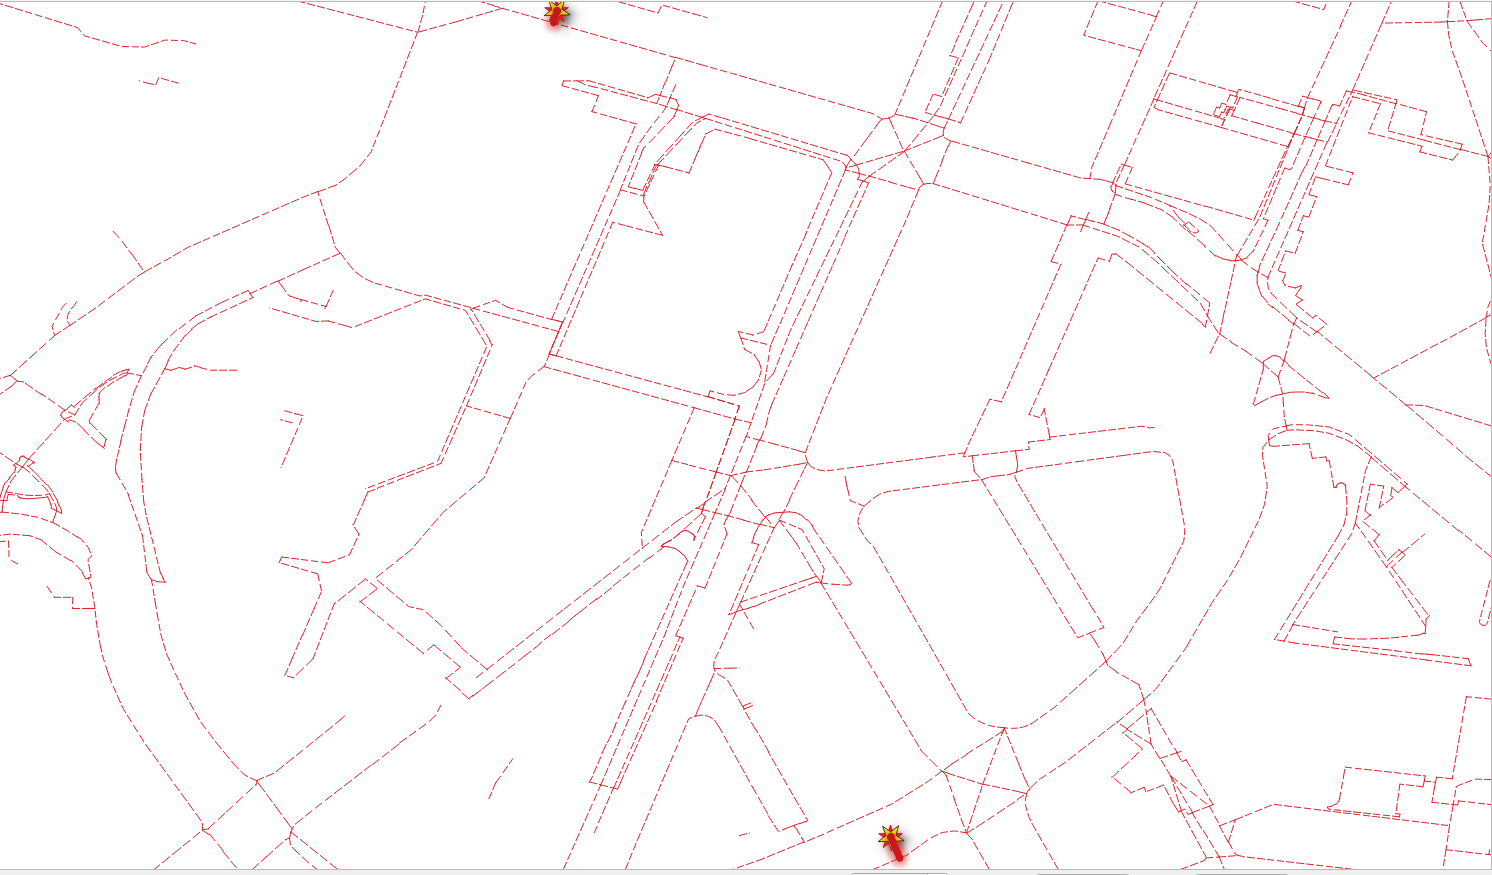
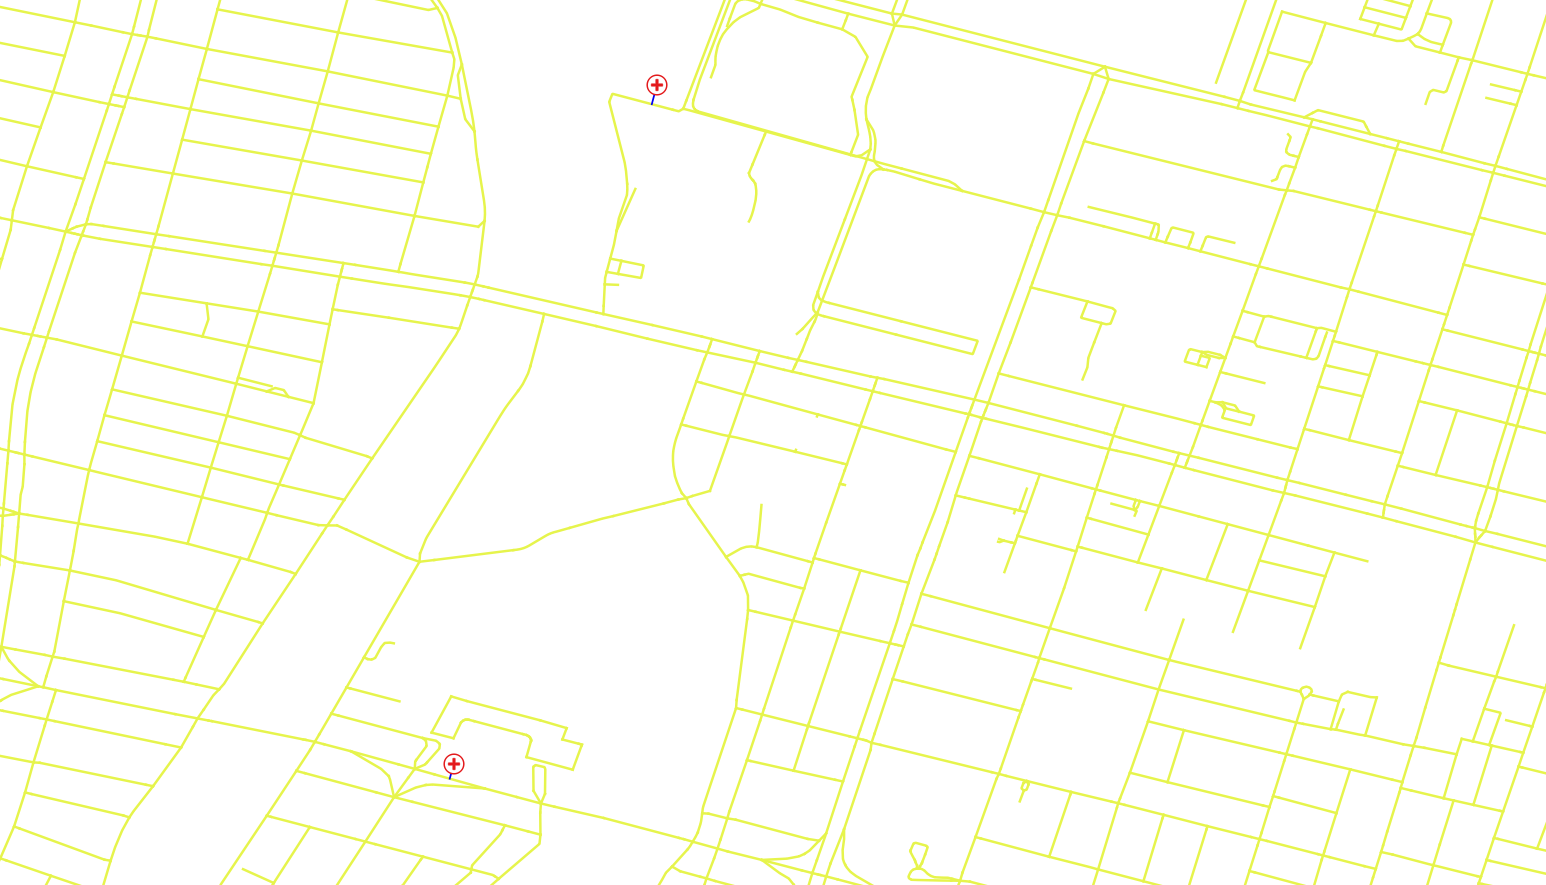
withPoints chapter is done

diff --git a/docs/basic/withPoints.rst b/docs/basic/withPoints.rst
@@ -10,9 +10,10 @@ Routing using points
   :align: center
 
 
-For more advanced requirements, you can utilize `PL/pgSQL <https://www.postgresql.org/docs/current/plpgsql.html>`_. As application logic grows more complex, using PL/pgSQL
-to dynamically construct SQL queries and execute them using internal variables becomes necessary.
-
+For more advanced requirements, you can utilize
+`PL/pgSQL <https://www.postgresql.org/docs/current/plpgsql.html>`_.
+As application logic grows more complex, using PL/pgSQL to dynamically construct
+SQL queries and execute them using internal variables becomes necessary.
 
 pgRouting functions in this chapter
 
@@ -30,13 +31,11 @@ Requirements for routing lat,lon points
   geometries and works for
 
   * ``vehicle_net``
-  * ``taxi_net``
-  * ``walk_net``
 
 * The function takes as input parameters:
 
   - The edges table name
-  - Latitude/longitude of two point
+  - Latitude/longitude of two points
 
 * Returns
 
@@ -51,7 +50,6 @@ The detailed description:
 ================  ==========  ================================================
 Parameter         type        Description
 ================  ==========  ================================================
-``edges_subset``  REGCLASS    Edge table name identifier.
 ``lat1``          NUMERIC     The latitude of the `departure` point.
 ``lon1``          NUMERIC     The longitude of the `departure` point.
 ``lat2``          NUMERIC     The latitude of the `destination` point.
@@ -61,21 +59,9 @@ Parameter         type        Description
 ================  ==========  ================================================
 
 
-.. rubric::  Output columns
-
-================== ========= =================
-Name               Type      Description
-================== ========= =================
-``seq``             INTEGER   A unique number for each result row.
-``id``              BIGINT    The edge identifier.
-``name``            TEXT      The name of the segment.
-``seconds``         FLOAT     The number of seconds it takes to traverse the segment.
-``length``          FLOAT     The length in meters of the segment.
-``azimuth``         FLOAT     The azimuth of the segment.
-``route_readable``  TEXT      The geometry in human readable form.
-``route_geom``      geometry  The geometry of the segment in the correct direction.
-================== ========= =================
-
+.. include:: sql_function.rst
+   :start-after: columns_start
+   :end-before: columns_end
 
 For this chapter, the following points will be used for testing.
 
@@ -115,8 +101,7 @@ Get the nearest edge on the graph of the following points.
 
 .. rubric:: Solution
 
-* Build the geometry of the points with the appropiate SRID. (lines **4** and
-  **10**)
+* Build the geometry of the points with the appropiate SRID.
 * Get the union of the individual queries
 
 .. literalinclude:: ../scripts/basic/withPoints/withPoints.sql
@@ -216,15 +201,15 @@ The function's signature:
    :start-after: wrk_withPoints.txt
    :end-before: signature ends
 
-Getting the closest query:
+The points SQL:
 
 * The query looks like the one on `Exercise 1: Get the nearest edge`_
 * Using PostgreSQL ``format`` to make substitutions.
 
   * The first parameter is the string to be replaced
   * The rest are the data parameters, are the strings use for replacement.
-  * ``lat1``, ``lon1`` values will replace ``%2$s, %3$s`` respectively.
-  * ``lat2``, ``lon2`` values will replace ``%4$s, %5$s`` respectively.
+  * ``lat1``, ``lon1`` values will replace ``%2$s, %1$s`` respectively.
+  * ``lat2``, ``lon2`` values will replace ``%4$s, %3$s`` respectively.
 
 .. literalinclude:: ../scripts/basic/withPoints/withPoints.sql
    :language: sql
@@ -233,13 +218,12 @@ Getting the closest query:
    :start-after: -- 0
    :end-before: -- 1
 
-Getting the routing results:
+The routing results:
 
 * The query looks like the one on `Exercise 2: Point routing`
 * Using PostgreSQL ``format`` to make substitutions.
 
-  * The ``edges_subset`` value will replace ``%1$I``.
-  * The ``closest_query`` value will replace ``%2$s``.
+  * The ``points_sql`` value will replace ``%1$s``.
 
 .. literalinclude:: ../scripts/basic/withPoints/withPoints.sql
    :language: sql
@@ -247,24 +231,6 @@ Getting the routing results:
    :linenos:
    :start-after: -- 1
    :end-before: -- 2
-
-Getting the additional information:
-
-* The subquery looks like the one in the function created on
-  :doc:`sql_function`.
-* A joined table can not be a variable
-
-  * Using PostgreSQL ``format`` to make substitutions.
-  * To make it work on the ``walk_net``, the whole query needs to be in
-    ``TEXT``.
-  * The ``edges_subset`` value will replace ``%1$I``:
-
-.. literalinclude:: ../scripts/basic/withPoints/withPoints.sql
-   :language: sql
-   :force:
-   :linenos:
-   :start-after: -- 2
-   :end-before: -- 3
 
 Building the complete query:
 
@@ -276,8 +242,8 @@ Building the complete query:
    :language: sql
    :force:
    :linenos:
-   :start-after: -- 3
-   :end-before: -- 4
+   :start-after: -- 2
+   :end-before: -- 3
 
 Exercise 4: Using wrk_withPoints
 ...............................................................................
@@ -292,25 +258,15 @@ Use ``wrk_withPoints``
 
 * Departure point is: (lat,lon) = ``(@POINT1_LAT@, @POINT1_LON@)``
 * Destination point is: (lat,lon) = ``(@POINT2_LAT@, @POINT2_LON@)``
-* For ``vehicle_net``:
 
-  * Get the names of the streets of the route.
+* Get the query that is been generated.
+* Get the names of the streets of the route.
+* Create a view to be used on QGIS.
 
-* For ``taxi_net``:
-
-  * Get the query that is been generated.
-
-* For ``walk_net``:
-
-  * Use with default value of ``do_debug``.
-  * Store results on a table.
-  * Show the table contents.
+  * Test the view by listing the names of each segment of the route.
 
 .. rubric:: Solution
 
-For ``vehicle_net``:
-
-* The first parameter is the table name.
 * The next two parameters are the latitude and longitude of the departure point.
 * The next two parameters are the latitude and longitude of the destination point.
 * Use with default value of ``do_debug``.
@@ -324,8 +280,6 @@ For ``vehicle_net``:
 
   .. literalinclude:: ../scripts/basic/withPoints/use_fn_1.txt
 
-For ``taxi_net``:
-
 * Do a dry run by adding ``true`` to get the query that is executed.
 
 .. literalinclude:: ../scripts/basic/withPoints/withPoints.sql
@@ -337,7 +291,7 @@ For ``taxi_net``:
 
   .. literalinclude:: ../scripts/basic/withPoints/warnings.txt
 
-For ``walk_net``:
+* Create the view and test it.
 
 .. literalinclude:: ../scripts/basic/withPoints/withPoints.sql
   :language: sql

diff --git a/docs/basic/sql_function.rst b/docs/basic/sql_function.rst
@@ -54,7 +54,9 @@ Parameter          Type      Description
 ``target``        BIGINT    The identifier of the `destination` location.
 ================= ========= =================
 
-.. rubric:: output columns
+.. columns_start
+
+.. rubric:: Output columns
 
 ================== ========= =================
 Name               Type      Description
@@ -69,6 +71,7 @@ Name               Type      Description
 ``geom``            geometry  The geometry of the segment in the correct direction.
 ================== ========= =================
 
+.. columns_end
 
 Additional information handling
 ===============================================================================
